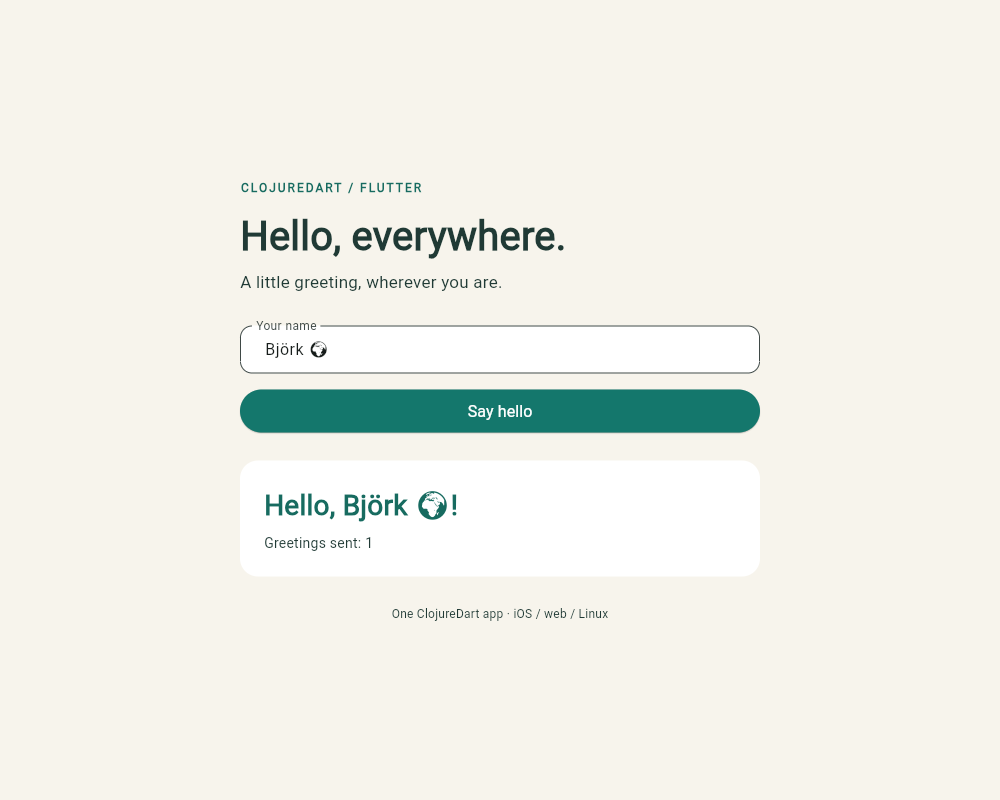
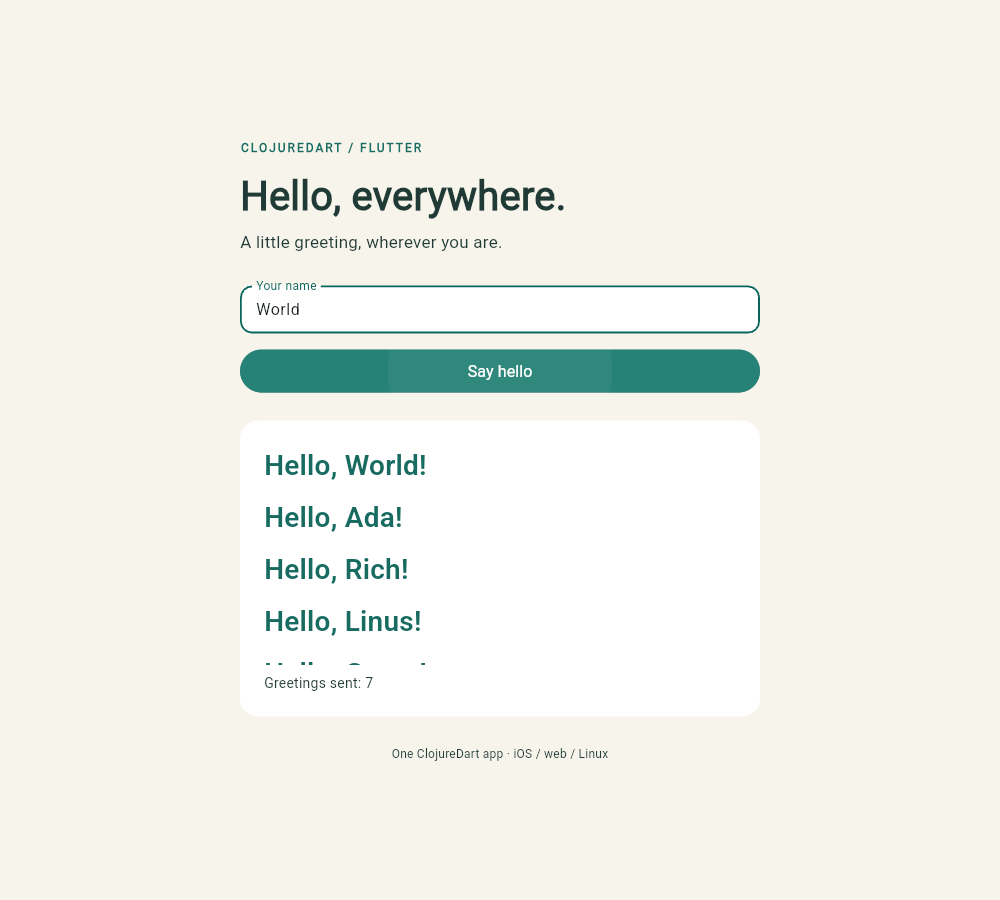
Keep Flutter greetings in a newest-first scrolling history

diff --git a/examples/clojuredart/test/widget_test.dart b/examples/clojuredart/test/widget_test.dart
@@ -23,8 +23,39 @@ void greetingTests() {
     await tester.pumpAndSettle();
     expect(tester.widget<Text>(find.byKey(const ValueKey('greeting'))).data, 'Hello, world!');
     expect(find.text('Greetings sent: 2'), findsOneWidget);
+    expect(find.text('Hello, Björk 🌍!'), findsOneWidget);
     expect(tester.takeException(), isNull);
   });
+
+  testWidgets('history keeps duplicates, puts newest first, and scrolls', (tester) async {
+    app.main();
+    await tester.pumpAndSettle();
+    final name = find.byKey(const ValueKey('name'));
+    final greet = find.byKey(const ValueKey('greet'));
+    for (var i = 0; i < 12; i++) {
+      await tester.enterText(name, i < 2 ? 'Ada' : 'Guest $i');
+      await tester.ensureVisible(greet);
+      await tester.tap(greet);
+      await tester.pumpAndSettle();
+    }
+    expect(tester.widget<Text>(find.byKey(const ValueKey('greeting'))).data,
+        'Hello, Guest 11!');
+    expect(tester.widget<Text>(find.byKey(const ValueKey('greeting-1'))).data,
+        'Hello, Guest 10!');
+    expect(find.text('Greetings sent: 12'), findsOneWidget);
+    final history = find.byKey(const ValueKey('greetings'));
+    await tester.ensureVisible(history);
+    await tester.pumpAndSettle();
+    final scrollable = find.descendant(of: history, matching: find.byType(Scrollable));
+    final position = tester.state<ScrollableState>(scrollable).position;
+    expect(position.maxScrollExtent, greaterThan(0));
+    await tester.drag(history, const Offset(0, -1000));
+    await tester.pumpAndSettle();
+    expect(position.pixels, greaterThan(0));
+    expect(find.text('Hello, Ada!'), findsNWidgets(2));
+    expect(tester.takeException(), isNull);
+  });
+
 }
 
 void main() => greetingTests();

diff --git a/README.md b/README.md
@@ -36,7 +36,7 @@ Updated as each demo is verified. “Working” means the listed execution check
 | ClojureCLR / C# interop | [Working demo](examples/clr/) | Native Linux ARM64, .NET SDK 8.0.425 (no container): C# calls ClojureCLR; .NET formatting and UTC date APIs; default, Unicode and quoted-input checks passed. |
 | SCI / C FFI + GraalVM | [Native library demo](examples/sci-ffi/) | Linux ARM64: Rust and Zig call GraalVM-compiled SCI through C FFI; expressions and relocation verified without a JVM process. |
 | SCI / expression evaluation | [Five-host eval demo](examples/sci-eval/) | Linux ARM64: JVM Clojure, Babashka, compiled ClojureScript on Node, ClojureDart on Dart, and Jolt with its compatible SCI pin; expression evaluation verified. |
-| ClojureDart + Flutter | [Demo + screenshots](examples/clojuredart/) | Web release + Chromium, native Linux ARM64 + GTK (host build/run, no Docker), and iOS 26.5 simulator: Unicode/blank greetings and counter integration checks passed. |
+| ClojureDart + Flutter | [Demo + screenshots](examples/clojuredart/) | Web release + Chromium, native Linux ARM64 + GTK (host build/run, no Docker), and iOS 26.5 simulator: Unicode/blank greetings and counter integration checks passed. Newest-first scrollable history additionally checked on Linux and web. |
 | Scittle / browser script tags | [Demo + screenshot](examples/scittle/) | Plain HTML with inline Clojure and an atom; Chromium verified file:// loading and successive button-click greetings. No CSS, server, or build step. |
 | Jolt / tail-call Fibonacci | [Native demo + comparison output](examples/jolt/) | Linux ARM64, Chez 10.4.1: ordinary tail recursion computes Fibonacci(20000), checked against an independent reference; identical function overflows on JVM Clojure with default stack settings. No Docker required. |
 | Rustly / Raspberry Pi 4 firmware | [Hardware hello + Morse demo](examples/rustly-rpi/) | Original Clojure-to-Rust hello passed physical Pi 4 boot and Unicode echo. Serial-controlled Morse extension passes sequencer and QEMU tests; Morse image passed physical Pi 4 boot and accepted `clj` over serial; visual LED verification pending. |

diff --git a/examples/clojuredart/README.md b/examples/clojuredart/README.md
@@ -1,8 +1,9 @@
 # ClojureDart: Hello, everywhere
 
 One Flutter app for **iOS, web, and native Linux**. Enter a name and press
-**Say hello** (or submit from the keyboard). An atom holds the greeting and
-submission count; `cljd.flutter` watches it and rebuilds the screen. A managed
+**Say hello** (or submit from the keyboard). An atom stores every submitted
+greeting, including duplicates; `cljd.flutter` watches it and rebuilds the screen. The list shows newest greetings first and
+scrolls as it grows. History lasts for the current app session. A managed
 `TextEditingController` follows the widget lifecycle. Blank names greet the world.
 The bundled [Noto Emoji font](https://github.com/google/fonts/tree/main/ofl/notoemoji)
 provides a consistent fallback for emoji; its [OFL license](assets/fonts/OFL.txt)
@@ -20,7 +21,10 @@ generated platform runners host it; the UI and state logic are ClojureDart.
 | Linux | Native AArch64 release executable and GTK window under Xvfb; native integration tests | [Screenshot](screenshot-linux.png) |
 | iOS | iPhone 17 simulator, iOS 26.5; build, install, launch and integration tests on the Mac host | [Screenshot](screenshot-ios.png) |
 
-The iOS check uses a simulator, not a physical device or an App Store build.
+The greeting history has been checked with Flutter widget tests, native Linux
+integration tests (ordering, duplicates, and scrolling), and Chromium submissions.
+The iOS check predates the history addition and uses a simulator, not a physical
+device or an App Store build.
 Linux runs directly on this VM using its native Clang, Ninja, GTK, and Flutter SDK;
 release build and integration tests passed without Docker.
 
